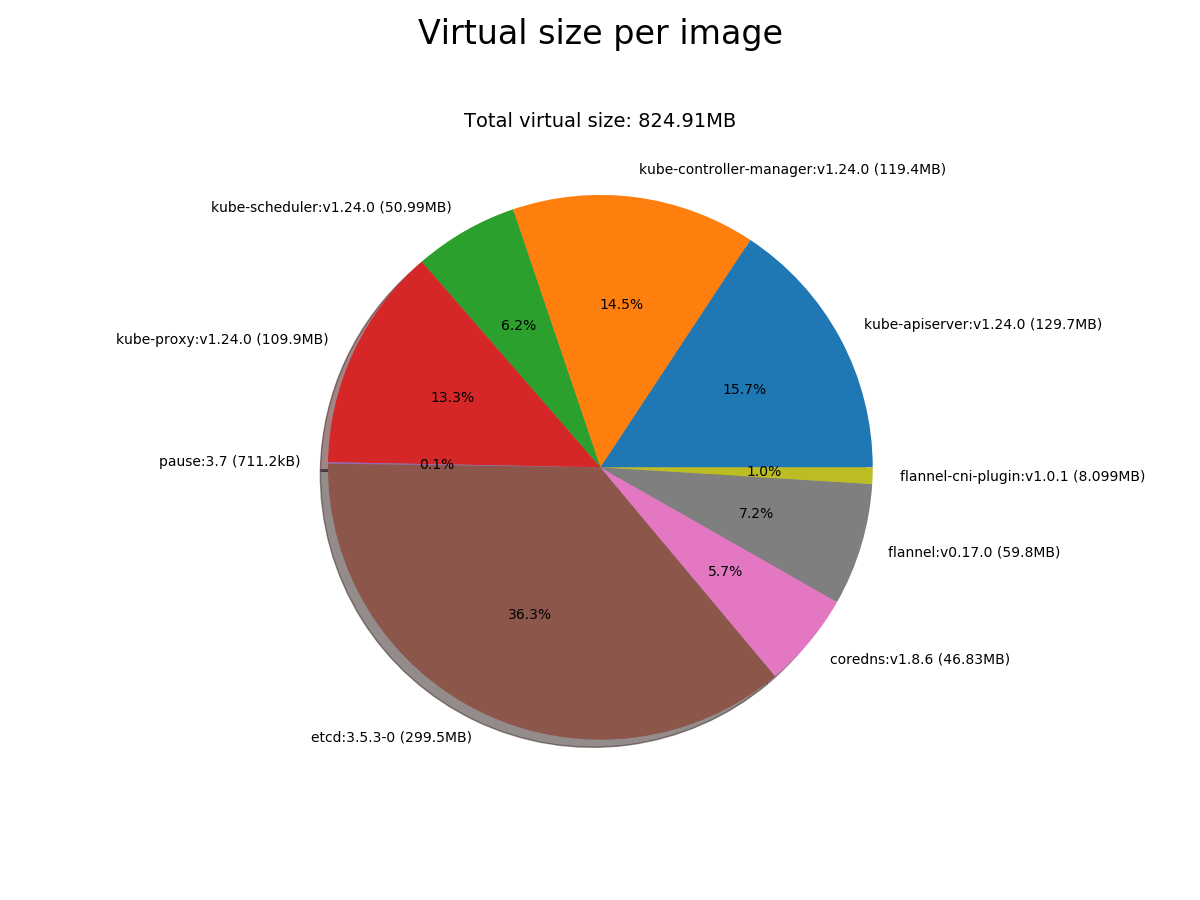
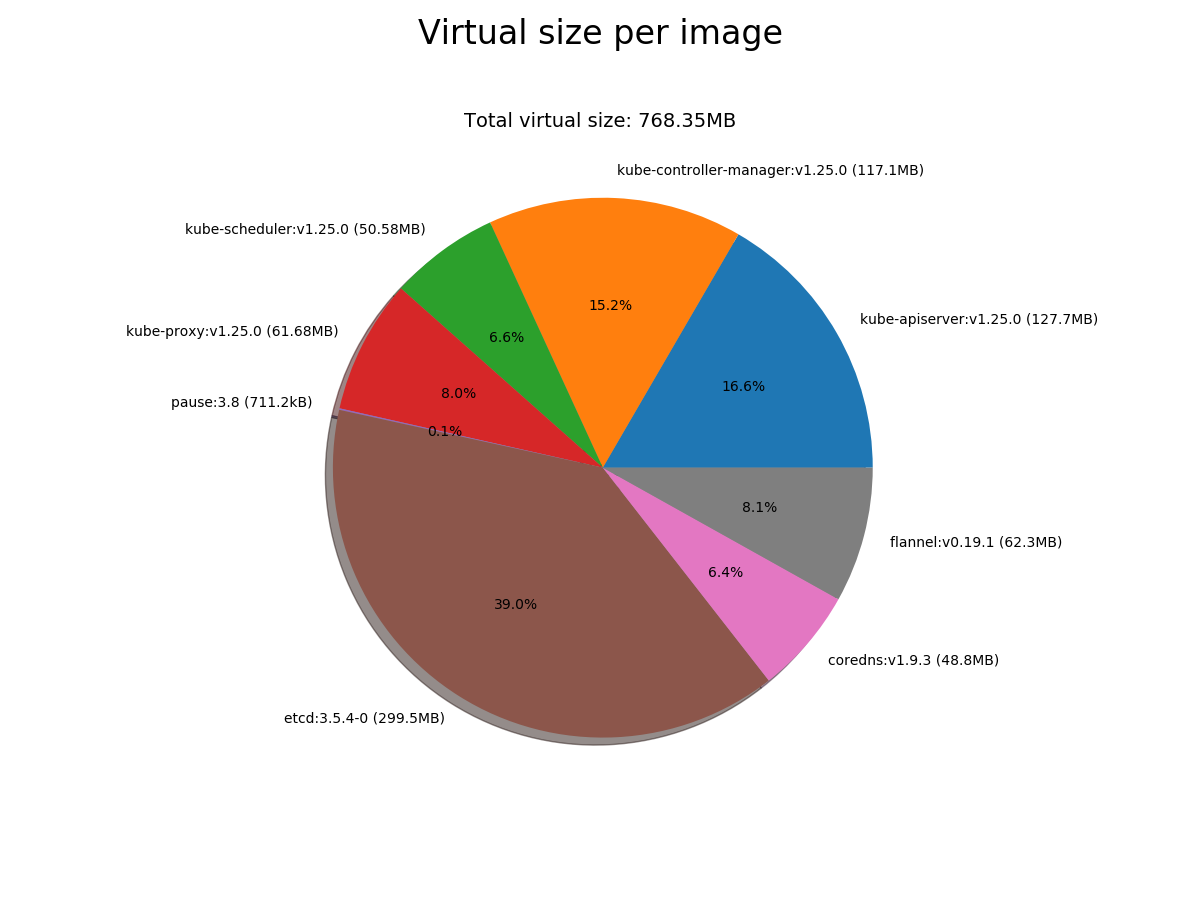
Update information for kubernetes 1.25.0

diff --git a/README.md b/README.md
@@ -63,43 +63,14 @@ Required images:
 
 ```console
 $ kubeadm config images list
-k8s.gcr.io/kube-apiserver:v1.24.0
-k8s.gcr.io/kube-controller-manager:v1.24.0
-k8s.gcr.io/kube-scheduler:v1.24.0
-k8s.gcr.io/kube-proxy:v1.24.0
-k8s.gcr.io/pause:3.7
-k8s.gcr.io/etcd:3.5.3-0
-k8s.gcr.io/coredns/coredns:v1.8.6
-```
-
-`docker images`:
-
-linux/amd64
-```
-REPOSITORY                           TAG        IMAGE ID       CREATED         SIZE
-k8s.gcr.io/kube-apiserver            v1.24.0    529072250ccc   29 hours ago    130MB
-k8s.gcr.io/kube-proxy                v1.24.0    77b49675beae   29 hours ago    110MB
-k8s.gcr.io/kube-scheduler            v1.24.0    e3ed7dee73e9   29 hours ago    51MB
-k8s.gcr.io/kube-controller-manager   v1.24.0    88784fb4ac2f   29 hours ago    119MB
-k8s.gcr.io/pause                     3.7        221177c6082a   7 weeks ago     711kB
-k8s.gcr.io/etcd                      3.5.3-0    aebe758cef4c   2 weeks ago     299MB
-k8s.gcr.io/coredns/coredns           v1.8.6     a4ca41631cc7   6 months ago    46.8MB
-k8s.gcr.io/pause                     3.6        6270bb605e12   9 months ago    683kB
-flannelcni/flannel                   v0.17.0    9247abf08677   2 months ago    59.8MB
-```
-
-linux/arm64
-```
-REPOSITORY                           TAG        IMAGE ID       CREATED         SIZE
-k8s.gcr.io/kube-apiserver            v1.24.0    b62a103951f4   2 weeks ago     126MB
-k8s.gcr.io/kube-proxy                v1.24.0    66e1443684b0   2 weeks ago     106MB
-k8s.gcr.io/kube-scheduler            v1.24.0    b81513b3bfb4   2 weeks ago     50MB
-k8s.gcr.io/kube-controller-manager   v1.24.0    59fad34d4fe0   2 weeks ago     116MB
-k8s.gcr.io/pause                     3.7        e5a475a03805   2 months ago    514kB
-k8s.gcr.io/etcd                      3.5.3-0    a9a710bb96df   5 weeks ago     178MB
-k8s.gcr.io/coredns/coredns           v1.8.6     edaa71f2aee8   7 months ago    46.8MB
-k8s.gcr.io/pause                     3.6        7d46a07936af   9 months ago    484kB
-flannelcni/flannel                   v0.17.0    a8fbfb17608d   2 months ago    61.8MB
+registry.k8s.io/kube-apiserver:v1.25.0
+registry.k8s.io/kube-controller-manager:v1.25.0
+registry.k8s.io/kube-scheduler:v1.25.0
+registry.k8s.io/kube-proxy:v1.25.0
+registry.k8s.io/pause:3.8
+registry.k8s.io/etcd:3.5.4-0
+registry.k8s.io/coredns/coredns:v1.9.3
+docker.io/flannelcni/flannel:v0.19.1
 ```
 
 ![image size](image-size.png)
@@ -107,26 +78,26 @@ flannelcni/flannel                   v0.17.0    a8fbfb17608d   2 months ago    6
 `docker pull` (gzip):
 
 ```
-32M	images/k8s.gcr.io/kube-apiserver_v1.24.0
-37M	images/k8s.gcr.io/kube-proxy_v1.24.0
-15M	images/k8s.gcr.io/kube-scheduler_v1.24.0
-29M	images/k8s.gcr.io/kube-controller-manager_v1.24.0
-292K	images/k8s.gcr.io/pause_3.7
-97M	images/k8s.gcr.io/etcd_3.5.3-0
-13M	images/k8s.gcr.io/coredns/coredns_v1.8.6
-19M	images/docker.io/flannelcni/flannel_v0.17.0
-240M	total
+32M	images/registry.k8s.io/kube-apiserver_v1.25.0
+30M	images/registry.k8s.io/kube-controller-manager_v1.25.0
+15M	images/registry.k8s.io/kube-scheduler_v1.25.0
+19M	images/registry.k8s.io/kube-proxy_v1.25.0
+292K	images/registry.k8s.io/pause_3.8
+97M	images/registry.k8s.io/etcd_3.5.4-0
+14M	images/registry.k8s.io/coredns/coredns_v1.9.3
+20M	images/docker.io/flannelcni/flannel_v0.19.1
+225M	total
 ```
 
 `docker save | xz`:
 
 ```
-166M	images.txz
+156M	images.txz
 ```
 
 ```
 Strms  Blocks   Compressed Uncompressed  Ratio  Check   Filename
-    1      50    165.4 MiB    776.0 MiB  0.213  CRC32   images.txz
+    1      47    155.7 MiB    730.6 MiB  0.213  CRC32   images.txz
 ```
 
 Device layout:
